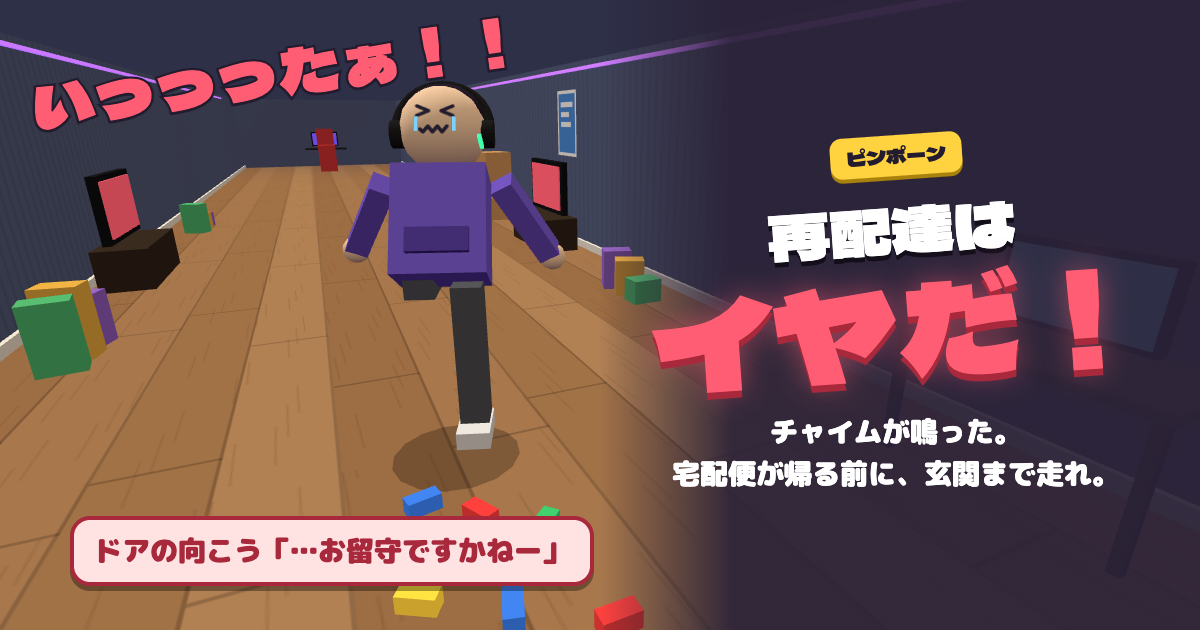
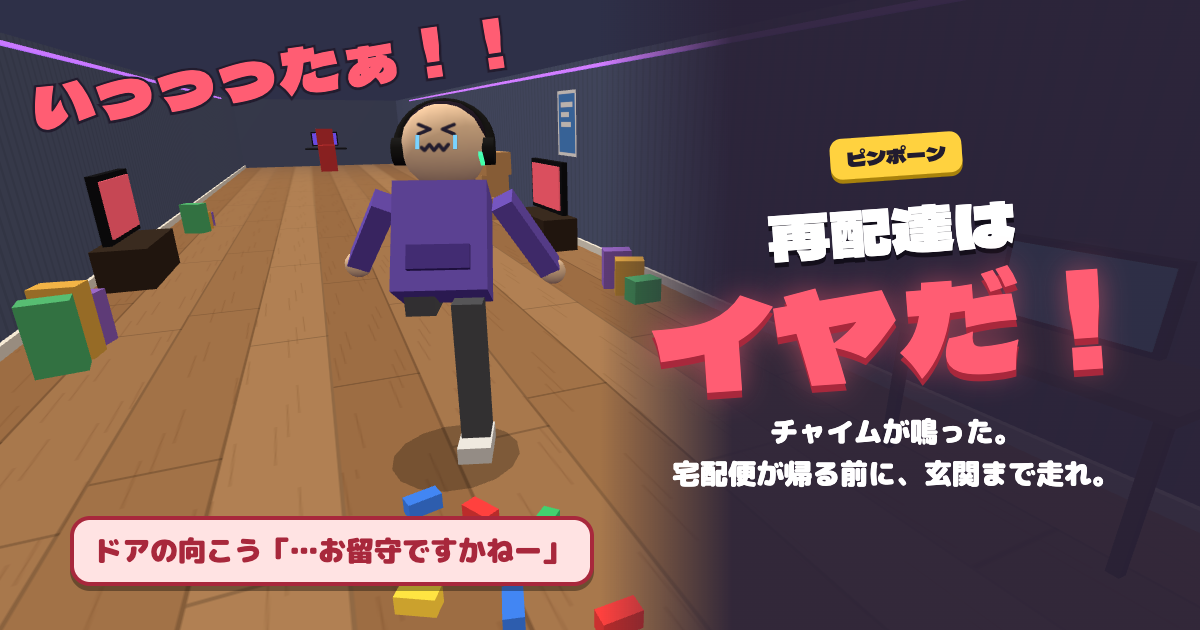
縦持ちのカメラを寄せる・文字の重なりをなくす・最高ランクを少し厳しく

Changed region(s): [[0.2775, 0.1206, 0.4933, 0.5127], [0.37, 0.6635, 0.4317, 0.754]]

diff --git a/game.js b/game.js
@@ -40,7 +40,9 @@ function resize() {
   // 縦長でも3レーンが見えるよう、縦画面はカメラを引いて視野を広げる
   CAM.fov = a < 1 ? clamp(2 * Math.atan(Math.tan(23 * Math.PI / 180) / a) * 180 / Math.PI, 56, 78) : 56
   const hh = Math.atan(Math.tan(CAM.fov * Math.PI / 360) * a)
-  CAM.back = clamp(2.15 / Math.tan(hh), 4.4, 6.4); CAM.h = 2.6 + CAM.back * 0.14
+  CAM.back = clamp(2.15 / Math.tan(hh), 4.4, 6.4); CAM.h = 2.6 + CAM.back * 0.14; CAM.port = a < 0.8
+  // 縦持ち: 近く・低めに寄せて主人公を下3分の1に大きく。左右はカメラが追うので3レーン全部を手前で映す必要はない
+  if (CAM.port) { CAM.fov = 64; CAM.back = 4.4; CAM.h = 2.35 }
   camera.fov = CAM.fov; camera.updateProjectionMatrix()
 }
 
@@ -385,7 +387,7 @@ function startStage(i) {
   if (!S.sim) for (const o of R.obs) makeObs(o, chunkFor(o.d))
   if (!S.sim) { if (player && player.parent) player.parent.remove(player); player = makeChar(st.outfit); world.add(player); S.snapCam = true }
   Object.assign(P, { d: 0, x: 0, lane: 1, y: 0, vy: 0, slide: 0, stun: 0, stunType: '', speed: 0, inv: 0, hits: 0, phase: 0, buf: null, bufT: 0, face: 'panic', spin: 0 })
-  S.mode = 'intro'; S.mt = 0; S.tutT = i === 0 ? 3.2 : 0
+  S.mode = 'intro'; S.mt = 0; S.tutT = i === 0 ? 3.0 : 0
   if (!S.sim) {
     go('vPlay'); $('#vPlay').classList.remove('oc'); $('#intro').hidden = false; $('#outc').hidden = true; $('#bNext').hidden = true; $('#dBub').hidden = true; $('#pBub').hidden = true; $('#blind').hidden = true; $('#tut').hidden = true
     $('#inNo').textContent = `${T('stage')} ${i + 1}`; $('#inSit').textContent = T('s_' + st.id); $('#inDing').textContent = ''; $('#stgNo').textContent = `${i + 1}/3`
@@ -466,6 +468,7 @@ function stepRun() {
 }
 function crash(o) {
   o.hit = true; P.hits++
+  if (S.tutT > 0) { S.tutT = 0; if (!S.sim) $('#tut').hidden = true } // 操作ガイドと擬音を重ねない
   const k = o.k, typ = { lego: 'agony', cat: 'trip', cable: 'trip', vacuum: 'trip', boxes: 'crash', clothes: 'tangle', laundry: 'blind' }[k]
   P.stun = D.HIT[k]; P.stunType = typ; P.slide = 0; P.spin = 0
   if (P.y > 0 && typ !== 'blind') { P.vy = Math.min(P.vy, 0) }
@@ -524,7 +527,7 @@ function stepOutcome() {
   if (t > 5.5) nextStage()
 }
 function showOutcome(ok) {
-  const r = S.results[S.idx], o = $('#outc'); o.hidden = false
+  const r = S.results[S.idx], o = $('#outc'); o.hidden = false; $('#dBub').hidden = true
   const big = $('#ocBig'), card = $('#ocCard')
   big.textContent = ok ? T('gotIt') : (S.lang === 'ja' ? '不在票…' : 'MISSED...'); big.className = 'big ' + (ok ? 'ok' : 'ng')
   card.className = 'card' + (ok ? '' : ' ng')
@@ -690,7 +693,12 @@ function toast(s) { const d = document.createElement('div'); d.className = 'toas
 // ---------- 吹き出し・擬音
 let bubT = 0
 function say(s, dur) { const b = $('#pBub'); b.textContent = s; b.hidden = false; bubT = dur }
-function ono(s, pain) { const d = document.createElement('div'); d.className = 'ono' + (pain ? ' pain' : ''); d.textContent = s; const p = screenOf(P.x, 1.9, -P.d); d.style.left = '50%'; d.style.fontSize = Math.min(innerWidth * 0.86 / Math.max(4, [...s].length), innerHeight * 0.1, 76) + 'px'; d.style.top = clamp(p.y - 60, 170, innerHeight - 180) + 'px'; $('#fx').appendChild(d); setTimeout(() => d.remove(), 1000) }
+function ono(s, pain) { const d = document.createElement('div'); d.className = 'ono' + (pain ? ' pain' : ''); d.textContent = s; const p = screenOf(P.x, 2.0, -P.d), fs = Math.min(innerWidth * 0.84 / Math.max(4, [...s].length), innerHeight * 0.075, 64); d.style.left = '50%'; d.style.fontSize = fs + 'px'
+  // 主人公の頭の上（自分の一言の吹き出しのさらに上）。上のゲージ・配達員のセリフの帯には入れない
+  const wEst = fs * [...s].length; let topMin = 0
+  for (const sel of ['.hud', '#dBub']) { const e = $(sel); if (!e || e.hidden) continue; const r = e.getBoundingClientRect(); if (r.width && r.right > (innerWidth - wEst) / 2 && r.left < (innerWidth + wEst) / 2) topMin = Math.max(topMin, r.bottom) }
+  topMin += fs * 0.7 + wEst * 0.08 + 6
+  d.style.top = clamp(p.y - 80 - fs / 2, topMin, innerHeight - 120) + 'px'; $('#fx').appendChild(d); setTimeout(() => d.remove(), 1000) }
 const _v = new THREE.Vector3()
 function screenOf(x, y, z) { _v.set(x, y, z).project(camera); return { x: (_v.x + 1) / 2 * innerWidth, y: (1 - _v.y) / 2 * innerHeight } }
 
@@ -729,7 +737,8 @@ function render(rt) {
     else { px = 0.7; py = 1.05; pz = -(L + 0.75); lx = -0.1; ly = 0.35; lz = -(L - 2.2) } // ドアの内側から、床の不在票とうなだれる人
     if (S.view === 'result') { const a = t * 0.2; px += Math.sin(a) * 0.4 }
   } else {
-    px = P.x * 0.55; py = CAM.h + P.y * 0.3; pz = -P.d + CAM.back; lx = P.x * 0.35; ly = 0.9; lz = -P.d - 7
+    if (CAM.port) { px = P.x * 0.8; py = CAM.h + P.y * 0.3; pz = -P.d + CAM.back; lx = P.x * 0.6; ly = 0.75; lz = -P.d - 10 }
+    else { px = P.x * 0.55; py = CAM.h + P.y * 0.3; pz = -P.d + CAM.back; lx = P.x * 0.35; ly = 0.9; lz = -P.d - 7 }
   }
   if (S.camOv) { [px, py, pz] = S.camOv.p; [lx, ly, lz] = S.camOv.l; S.snapCam = true }
   const k = S.mode === 'run' && S.view === 'play' ? 0.14 : 0.06
@@ -774,7 +783,13 @@ function hud() {
   $('#patMouth').setAttribute('d', fr < 0.25 ? 'M12 25q4-4 8 0' : fr < 0.5 ? 'M12 24h8' : 'M12 23q4 3 8 0')
   $('#progMan').style.left = (clamp(P.d / (R.st ? R.st.len : 1), 0, 1) * 100).toFixed(1) + '%'
   const b = $('#pBub')
-  if (!b.hidden) { const p = screenOf(P.x, 2.2 + P.y, -P.d); b.style.left = clamp(p.x, 90, innerWidth - 90) + 'px'; b.style.top = clamp(p.y, 150, innerHeight - 100) + 'px' }
+  if (!b.hidden) {
+    const p = screenOf(P.x, 2.2 + P.y, -P.d); b.style.left = clamp(p.x, 90, innerWidth - 90) + 'px'; let top = clamp(p.y, 150, innerHeight - 100); b.style.top = top + 'px'
+    // 擬音・配達員のセリフ・ゲージと重なったら、その下へずらす
+    const bh = b.offsetHeight, bw = b.offsetWidth, bl = parseFloat(b.style.left) - bw / 2
+    for (const e of [...$$('#fx .ono'), $('.hud'), $('#dBub')]) { if (!e || e.hidden) continue; const r = e.getBoundingClientRect(); if (!r.width) continue; if (bl < r.right && r.left < bl + bw && top - bh < r.bottom && r.top < top) top = r.bottom + bh + 6 }
+    b.style.top = Math.min(top, innerHeight - 90) + 'px'
+  }
 }
 
 // ---------- 画面切替・文言

diff --git a/index.html b/index.html
@@ -92,10 +92,10 @@ html[lang=en] .logo .l2{font-size:clamp(36px,min(11.4vw,8.5vh),84px)}
 .prog .man{position:absolute;top:50%;width:14px;height:14px;margin:-7px 0 0 -7px;border-radius:50%;background:var(--sky);box-shadow:0 0 0 3px #1b1624;left:0}
 .prog svg{position:absolute;right:6px;top:2px;width:18px;height:18px}
 #bPause{position:absolute;top:max(8px,env(safe-area-inset-top));right:calc(max(8px,env(safe-area-inset-right)) + 124px)}
-.dBub{position:absolute;left:50%;top:calc(max(8px,env(safe-area-inset-top)) + 110px);transform:translateX(-50%);background:#fff;color:var(--ink);border:3px solid var(--ink);border-radius:18px;padding:6px 14px;font-weight:900;font-size:clamp(15px,4.2vw,20px);white-space:nowrap;box-shadow:0 4px 0 rgba(0,0,0,.35);animation:pop .3s cubic-bezier(.2,1.6,.4,1)}
+.dBub{position:absolute;left:calc(max(10px,env(safe-area-inset-left)) + 14px);top:calc(max(8px,env(safe-area-inset-top)) + 100px);transform:none;transform-origin:left center;background:#fff;color:var(--ink);border:3px solid var(--ink);border-radius:18px;padding:6px 14px;font-weight:900;font-size:clamp(14px,3.9vw,18px);padding:4px 12px;white-space:nowrap;box-shadow:0 4px 0 rgba(0,0,0,.35);animation:pop .3s cubic-bezier(.2,1.6,.4,1)}
 .dBub::before{content:"";position:absolute;left:-12px;top:50%;width:22px;height:22px;margin-top:-11px;border-radius:50%;background:var(--box);border:3px solid var(--ink)}
 .dBub.red{background:var(--slipbg);border-color:var(--slip-dk);color:var(--slip-dk)}
-@keyframes pop{from{transform:translateX(-50%) scale(.4)}to{transform:translateX(-50%) scale(1)}}
+@keyframes pop{from{transform:scale(.4)}to{transform:scale(1)}}
 .pBub{position:absolute;max-width:min(56vw,280px);background:var(--yel);color:var(--ink);border-radius:16px;padding:6px 12px;font-weight:900;font-size:15px;line-height:1.3;border:3px solid var(--ink);transform:translate(-50%,-100%);text-align:center;white-space:nowrap}
 .pBub::after{content:"";position:absolute;left:50%;bottom:-12px;margin-left:-8px;border:8px solid transparent;border-top-color:var(--ink);border-bottom:0}
 .ono{position:absolute;font-family:var(--disp);font-size:clamp(30px,min(11vw,9vh),74px);color:#fff;-webkit-text-stroke:4px var(--ink);paint-order:stroke fill;transform:translate(-50%,-50%) rotate(-8deg);white-space:nowrap;animation:ono 1s ease-out forwards;pointer-events:none}
@@ -184,7 +184,6 @@ html[lang=en] .hanko b{font-size:clamp(12px,3.4vw,14px)}
   .btn{min-height:48px;font-size:16px}.btn.red{min-height:54px;font-size:19px}
   .sRow{padding:3px 8px}.sRows{gap:4px;padding-top:8px}.sNums b{font-size:20px}
   .pad{width:62px;height:62px}.pad svg{width:32px;height:32px}
-  .dBub{top:calc(max(8px,env(safe-area-inset-top)) + 100px)}
 }
 @media (max-height:560px) and (orientation:landscape){
   #vTitle{flex-direction:row;justify-content:space-around;padding-top:max(48px,calc(env(safe-area-inset-top) + 40px));padding-bottom:max(20px,calc(env(safe-area-inset-bottom) + 14px))}

diff --git a/data.js b/data.js
@@ -2,9 +2,9 @@
 window.RD_DATA = {
   // ステージ: 状況・服・距離・速さ・配達員の待ち時間（秒）
   STAGES: [
-    { id: 'game', outfit: 'hoodie', len: 100, speed: 7.0, wait: 16.0, gap: [7.6, 9.9], mix: ['clothes', 'cable', 'cat', 'boxes', 'lego', 'laundry', 'vacuum'] },
-    { id: 'noodle', outfit: 'tee', len: 118, speed: 7.8, wait: 16.7, gap: [6.8, 8.8], mix: ['clothes', 'cable', 'cat', 'boxes', 'lego', 'laundry', 'vacuum', 'boxes2', 'lego2'] },
-    { id: 'bath', outfit: 'robe', len: 136, speed: 8.5, wait: 17.4, gap: [6.2, 7.9], mix: ['clothes', 'cable', 'cat', 'boxes', 'lego', 'laundry', 'vacuum', 'boxes2', 'lego2', 'combo'] },
+    { id: 'game', outfit: 'hoodie', len: 100, speed: 7.0, wait: 16.3, gap: [6.84, 8.91], mix: ['clothes', 'cable', 'cat', 'boxes', 'lego', 'laundry', 'vacuum'] },
+    { id: 'noodle', outfit: 'tee', len: 118, speed: 7.8, wait: 17.0, gap: [6.12, 7.92], mix: ['clothes', 'cable', 'cat', 'boxes', 'lego', 'laundry', 'vacuum', 'boxes2', 'lego2'] },
+    { id: 'bath', outfit: 'robe', len: 136, speed: 8.5, wait: 17.7, gap: [5.6, 7.11], mix: ['clothes', 'cable', 'cat', 'boxes', 'lego', 'laundry', 'vacuum', 'boxes2', 'lego2', 'combo'] },
   ],
   // ぶつかった時の止まる秒数
   HIT: { clothes: 0.7, cable: 1.0, cat: 1.0, boxes: 1.2, lego: 1.45, laundry: 0.8, vacuum: 0.9 },
